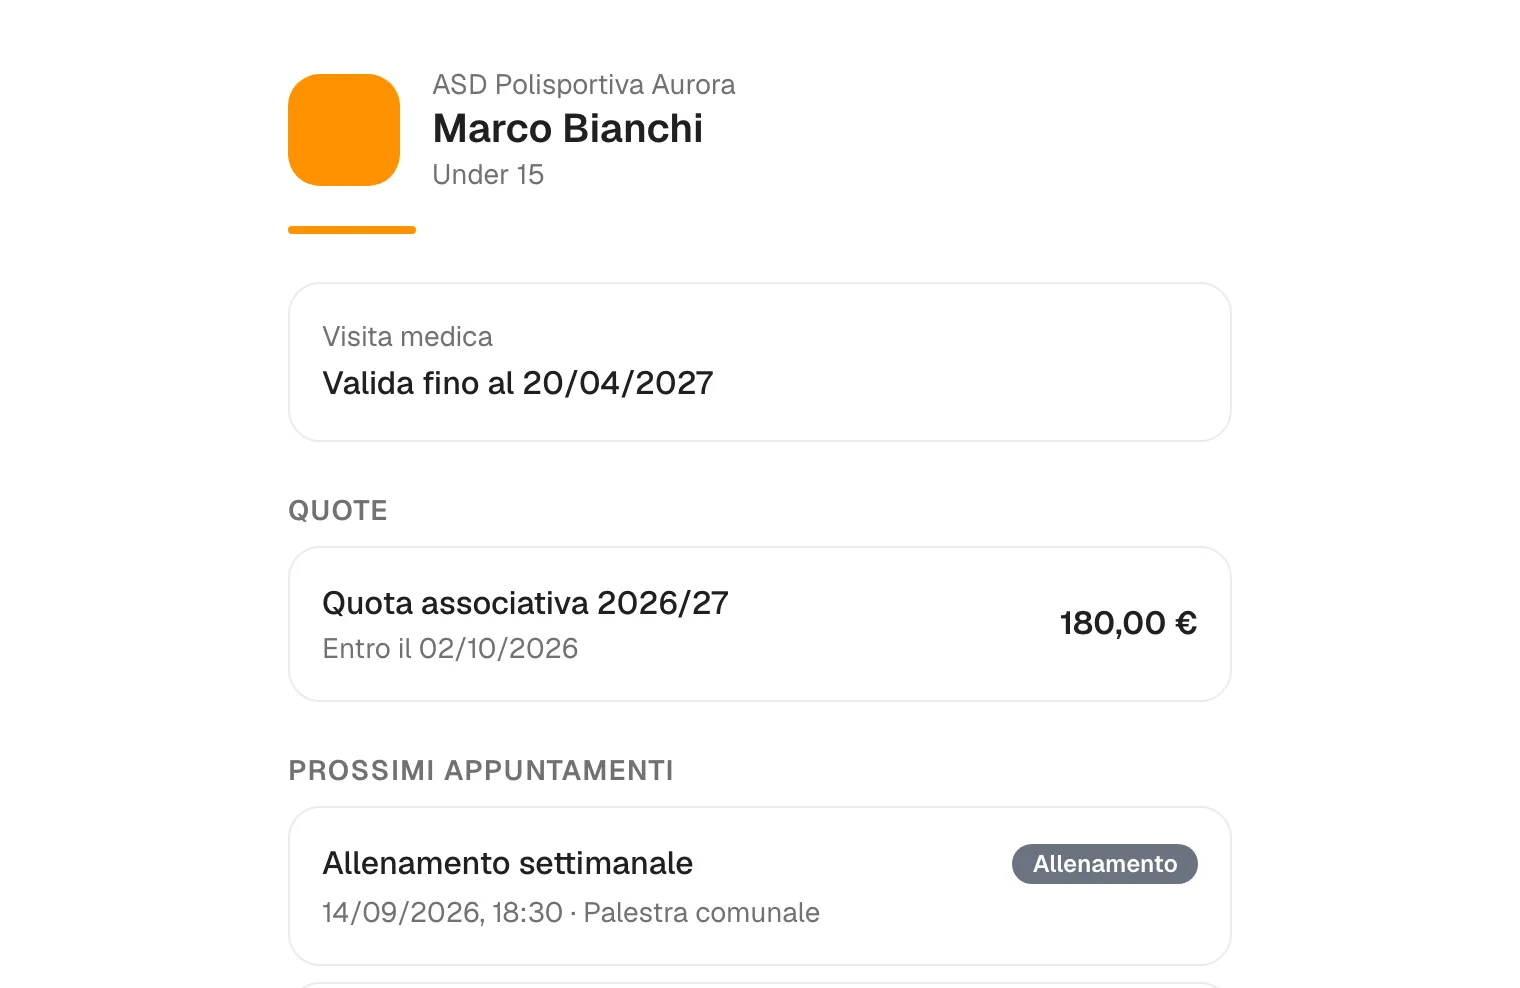
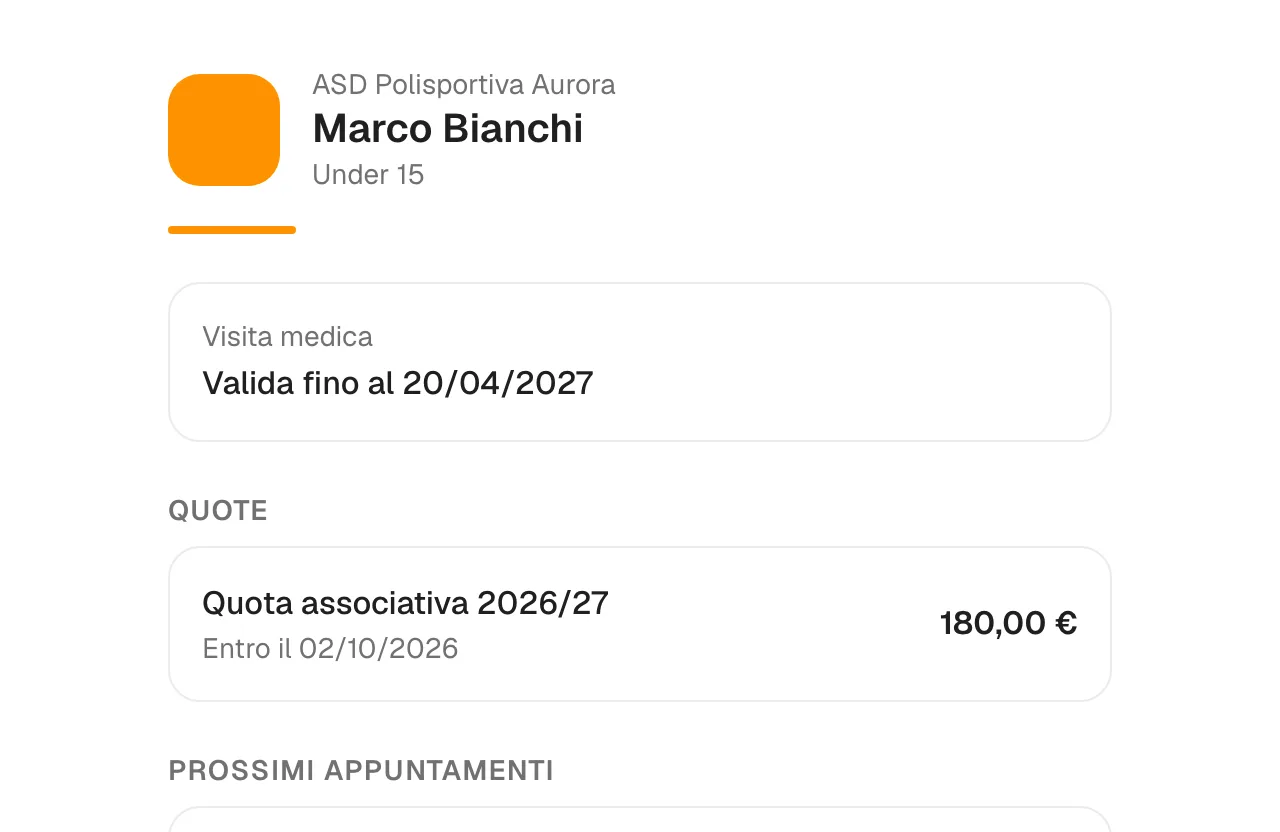
Chiudi il buco dopo l'ultimo capitolo, togli il passo delle registrazioni, stringi le due catture dei moduli

diff --git a/src/sections/work.css b/src/sections/work.css
@@ -18,8 +18,15 @@
   margin-right: calc(-1 * (clamp(1rem, 4vw, 2.5rem) + max(0px, (100vw - var(--maxw)) / 2)));
 }
 
+/* L'ultimo capitolo non è seguito da un altro capitolo ma da una sezione nuova: la sua coda
+   di scroll, che negli altri viene coperta dal capitolo successivo, qui resta un buco. Le serve
+   quel tanto che basta a far scorrere i suoi passi, non l'intera corsa. */
+.chapter:last-of-type, .chapter:last-of-type .chapter__grid { min-height: 94vh; }
+
 @media (max-width: 900px) {
   .chapter { min-height: auto; padding: 3rem 0 3.5rem; }
+  .chapter:last-of-type, .chapter:last-of-type .chapter__grid { min-height: auto; }
+  .chapter:last-of-type { padding-bottom: 1rem; }
   /* `display: contents` lifts the text block's children into the chapter grid, so the running
      product can sit between the title and the supporting copy — the order the eye wants — without
      a second copy of the markup for one breakpoint. */

diff --git a/src/flows/ipcam/shots.ts b/src/flows/ipcam/shots.ts
@@ -12,5 +12,4 @@ export const ipcamShots: Step<Shot>[] = [
   { id: 'live', label: 'Live', ms: 2600, state: { src: '/shots/ipcam/live.webp', alt: 'La diretta di una telecamera', focus: { x: 0.2, y: 0.02, w: 0.55 } } },
   { id: 'ptz', label: 'Pan / tilt', ms: 2400, state: { src: '/shots/ipcam/ptz.webp', alt: "I comandi che muovono l'obiettivo", focus: { x: 0.2, y: 0.58, w: 0.42 } } },
   { id: 'talk', label: 'Talk', ms: 2200, state: { src: '/shots/ipcam/talk.webp', alt: 'Il canale audio a due vie aperto verso la telecamera', focus: { x: 0.24, y: 0.58, w: 0.42 } } },
-  { id: 'recordings', label: 'Recordings', ms: 2800, state: { src: '/shots/ipcam/recordings.webp', alt: "L'archivio del giorno: quanto è registrato, a che ore, e dov'è il diretta", focus: { x: 0.13, y: 0.01, w: 0.58 } } },
 ];

diff --git a/tests/Work.test.tsx b/tests/Work.test.tsx
@@ -10,7 +10,7 @@ test('renders the ipcam chapter with text, device and step bar', () => {
   expect(scope.getByRole('heading', { name: /live video, without the vendor's cloud/i })).toBeInTheDocument();
   expect(scope.getByRole('figure', { name: /ipcam/i })).toBeInTheDocument();
   expect(scope.getByRole('group', { name: /flow steps/i })).toBeInTheDocument();
-  expect(scope.getByRole('button', { name: /Recordings/ })).toHaveAttribute('aria-current', 'step');
+  expect(scope.getByRole('button', { name: /Talk/ })).toHaveAttribute('aria-current', 'step');
 });
 
 test('renders the asd chapter alongside ipcam', () => {

diff --git a/e2e/chapters.spec.ts b/e2e/chapters.spec.ts
@@ -1,7 +1,7 @@
 import { expect, test } from '@playwright/test';
 
 const chapters = [
-  { id: 'ipcam', shots: [0, 1, 3] },
+  { id: 'ipcam', shots: [0, 1, 2] },
   { id: 'asd', shots: [0, 4, 8] },
   { id: 'med', shots: [0, 2, 3] },
 ];
